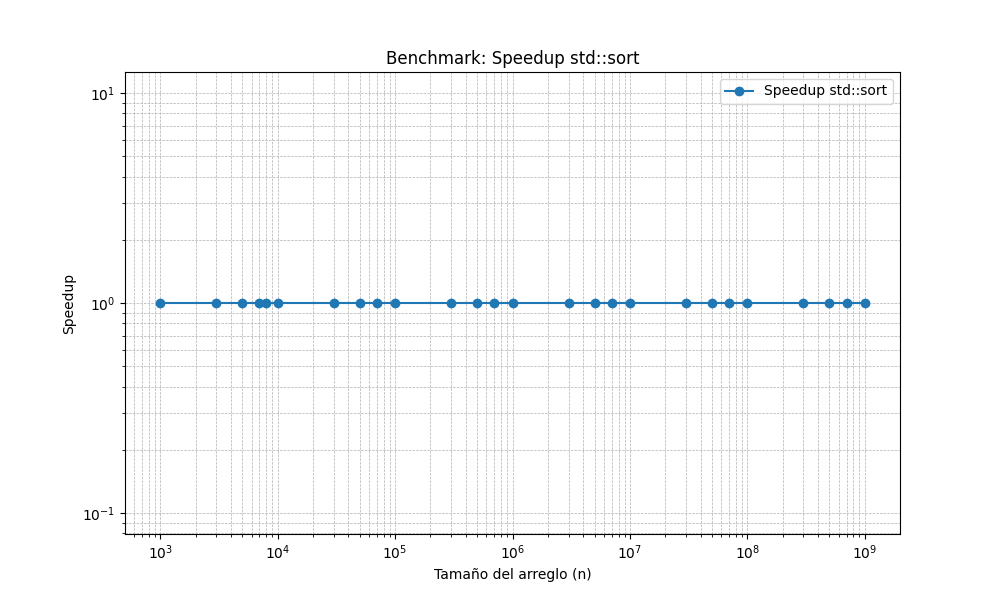
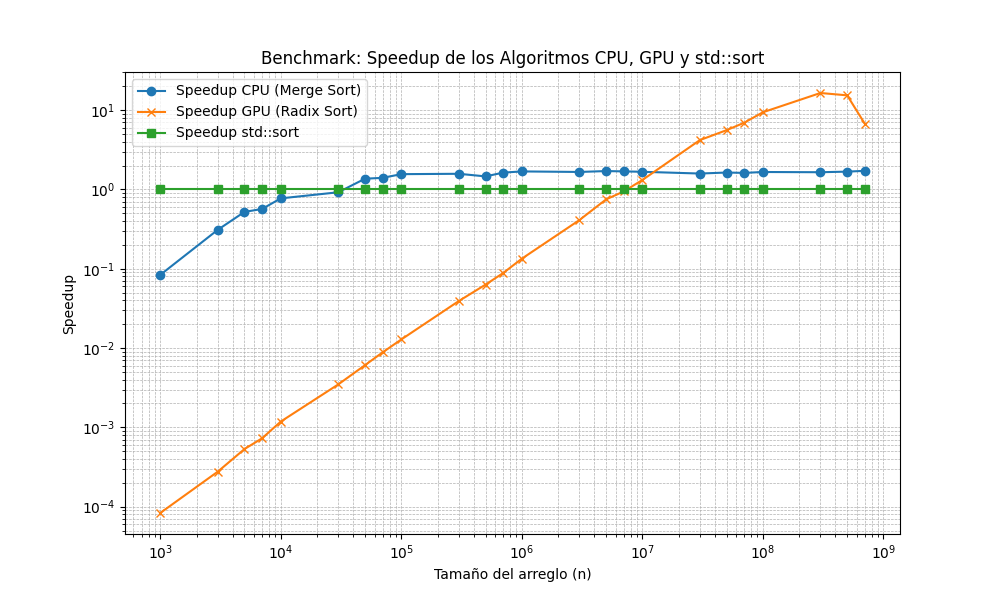
update benchmark f

Changed region(s): [[0.062, 0.06, 0.899, 0.93]]

diff --git a/src/benchmark_f.py b/src/benchmark_f.py
@@ -1,4 +1,4 @@
-import pandas as pd
+"""import pandas as pd
 import matplotlib.pyplot as plt
 
 
@@ -41,5 +41,116 @@ plt.legend()
 plt.grid(True, which="both", linestyle="--", linewidth=0.5)
 
 # save grafico
+plt.savefig("../resultados/benchmark_f.png")
+plt.show()
+"""
+
+import pandas as pd
+import matplotlib.pyplot as plt
+
+
+csv_path = "../resultados/benchmark_results.csv"
+
+
+column_names = ["n", "mode", "threads_or_gridsize", "time"]
+df = pd.read_csv(csv_path, header=None, names=column_names)
+
+df.columns = df.columns.str.strip()
+
+# promedio de los tiempos por configuración (agrupando por n y mode)
+df_avg = df.groupby(["n", "mode", "threads_or_gridsize"])["time"].mean().reset_index()
+
+
+n_values = [
+    1000, 3000, 5000, 7000, 10000,
+    30000, 50000, 70000, 100000,
+    300000, 500000, 700000, 1000000,
+    3000000, 5000000, 7000000, 10000000,
+    30000000, 50000000, 70000000, 100000000,
+    300000000, 500000000, 700000000
+]
+
+
+gpu_data_filtered = {}
+cpu_data_filtered = {}
+stl_sort_data_filtered = {}
+
+
+for n in n_values:
+    # filtro para GPU (mode == 1)
+    gpu_data = df_avg[(df_avg["n"] == n) & (df_avg["mode"] == 1)]
+    gpu_data_filtered[n] = gpu_data
+    
+    # filtro para CPU (mode == 0)
+    cpu_data = df_avg[(df_avg["n"] == n) & (df_avg["mode"] == 0)]
+    cpu_data_filtered[n] = cpu_data
+    
+    # filtro para std::sort (mode == 2)
+    stl_sort_data = df_avg[(df_avg["n"] == n) & (df_avg["mode"] == 2)]
+    stl_sort_data_filtered[n] = stl_sort_data
+
+gpu_data = pd.concat(gpu_data_filtered.values())
+cpu_data = pd.concat(cpu_data_filtered.values())
+stl_sort_data = pd.concat(stl_sort_data_filtered.values())
+
+
+speedup_cpu = []
+speedup_gpu = []
+speedup_sort = []
+
+for n_value in n_values:
+    # Obtener el tiempo de std::sort para cada n
+    stl_sort_row = stl_sort_data[stl_sort_data["n"] == n_value]
+    if len(stl_sort_row) > 0:
+        time_sort = stl_sort_row["time"].values[0]
+    else:
+        print(f"Advertencia: No se encontraron datos para std::sort con n = {n_value}")
+        continue 
+
+    # Obtener el tiempo de CPU para el mismo n
+    cpu_row = cpu_data[cpu_data["n"] == n_value]
+    if len(cpu_row) > 0:
+        time_cpu = cpu_row["time"].values[0]
+    else:
+        print(f"Advertencia: No se encontraron datos para CPU con n = {n_value}")
+        continue  
+
+    # Obtener el tiempo de GPU para el mismo n
+    gpu_row = gpu_data[gpu_data["n"] == n_value]
+    if len(gpu_row) > 0:
+        time_gpu = gpu_row["time"].values[0]
+    else:
+        print(f"Advertencia: No se encontraron datos para GPU con n = {n_value}")
+        continue  
+
+    speedup_cpu_value = time_sort / time_cpu
+    speedup_gpu_value = time_sort / time_gpu
+    speedup_sort_value = 1  # El speedup de std::sort con respecto a sí mismo es 1
+
+    speedup_cpu.append([n_value, speedup_cpu_value])
+    speedup_gpu.append([n_value, speedup_gpu_value])
+    speedup_sort.append([n_value, speedup_sort_value])
+
+
+df_speedup_cpu = pd.DataFrame(speedup_cpu, columns=["n", "speedup_cpu"])
+df_speedup_gpu = pd.DataFrame(speedup_gpu, columns=["n", "speedup_gpu"])
+df_speedup_sort = pd.DataFrame(speedup_sort, columns=["n", "speedup_sort"])
+
+# grafico del speedup de los tres algoritmos (CPU, GPU, std::sort)
+plt.figure(figsize=(10, 6))
+plt.plot(df_speedup_cpu["n"], df_speedup_cpu["speedup_cpu"], label="Speedup CPU (Merge Sort)", marker="o")
+plt.plot(df_speedup_gpu["n"], df_speedup_gpu["speedup_gpu"], label="Speedup GPU (Radix Sort)", marker="x")
+plt.plot(df_speedup_sort["n"], df_speedup_sort["speedup_sort"], label="Speedup std::sort", marker="s")
+
+
+plt.xscale("log")  
+plt.yscale("log")  
+plt.xlabel("Tamaño del arreglo (n)")
+plt.ylabel("Speedup")
+plt.title("Benchmark: Speedup de los Algoritmos CPU, GPU y std::sort")
+plt.legend()
+plt.grid(True, which="both", linestyle="--", linewidth=0.5)
+
+
 plt.savefig("../resultados/benchmark_f.png")
 plt.show()
